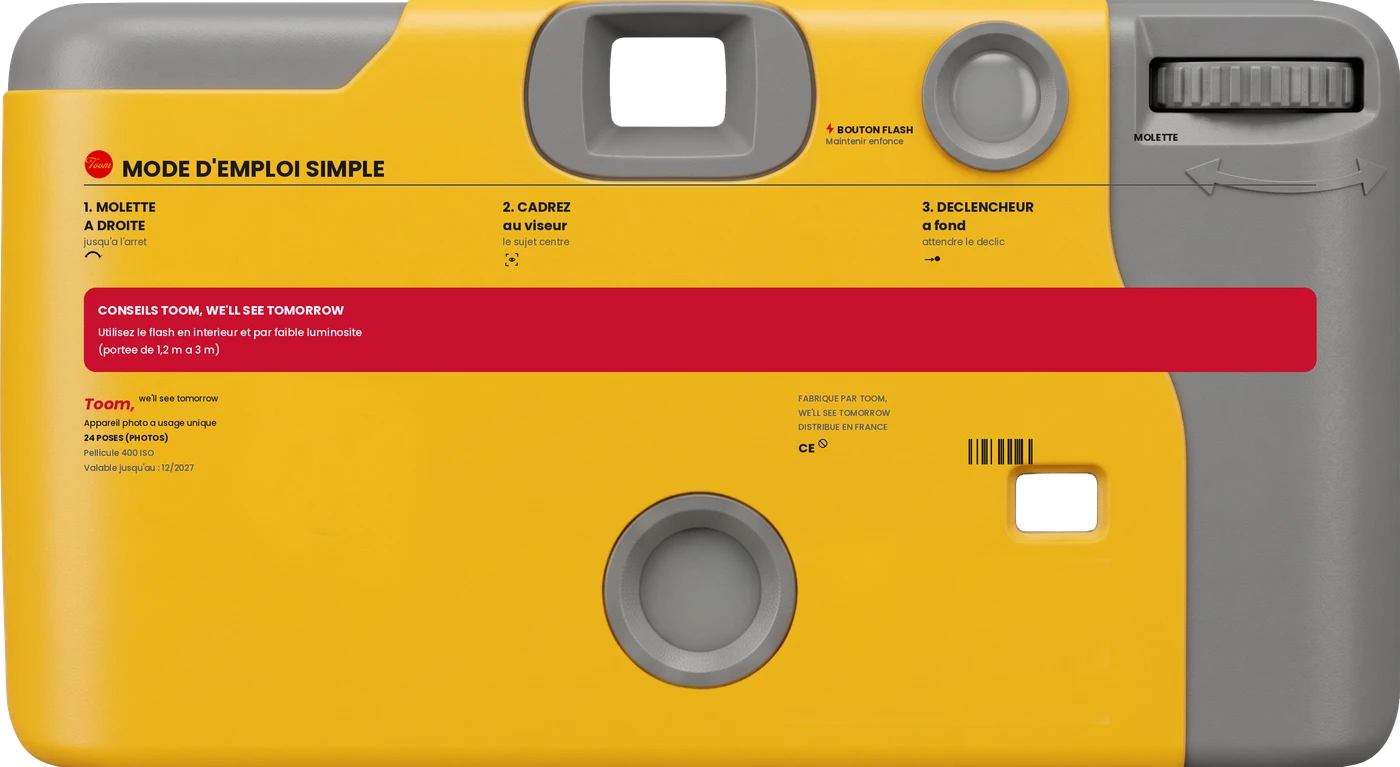
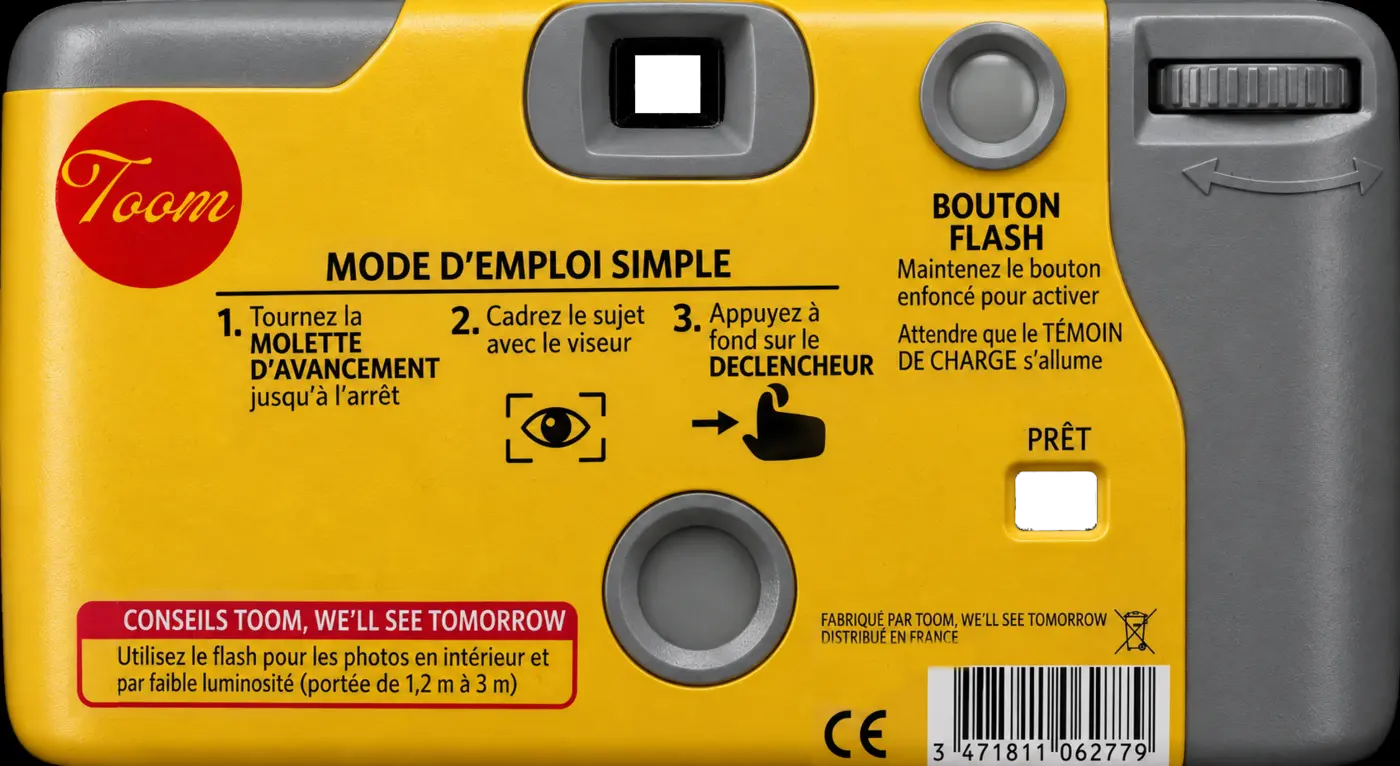
Feat: theme par defaut remplace par les visuels Photoshop de l'utilisateur
Remplacement complet de default-horizontal.webp / default-vertical.webp
par les nouvelles versions produites sous Photoshop (instructions
completes, icones, bloc marque/fabricant/CE/code-barres deja integres
a l'image, bien plus abouti que les tentatives generees par script).

- Verifie que les nouvelles images ont bien de vraies zones alpha
  (viseur + fenetre 'PRET' = compte-poses), comme annonce.
- Positions quasi identiques aux precedentes (confirme par mesure
  pixel), tailles des fenetres viseur/compteur ajustees (plus petites
  qu'avant, la decoupe est maintenant plus precise sur le carre
  reellement visible plutot que tout l'oeilleton).
- Masques de decoupe (windows-cutout-*) regeneres avec ces nouvelles
  coordonnees, pour que les themes personnalises (photos uploadees)
  restent coherents avec le nouvel emplacement exact des fenetres.
- Tests de non-chevauchement (hotspots.test.js) toujours au vert avec
  les nouvelles coordonnees.

diff --git a/src/utils/hotspots.js b/src/utils/hotspots.js
@@ -22,8 +22,8 @@ export const HOTSPOTS = {
     mask: "/skins/mask-horizontal.webp",
     windowsCutout: "/skins/windows-cutout-horizontal.webp",
     wheelAxis: "horizontal", // glissé gauche→droite
-    viewfinder: { x: 47.6, y: 10.4, w: 7.7, h: 13 },
-    poseCounter: { x: 75.4, y: 65.5, w: 5.7, h: 7.5 },
+    viewfinder: { x: 47.7, y: 10.9, w: 4.6, h: 7.4 },
+    poseCounter: { x: 75.4, y: 65.3, w: 5.7, h: 7.5 },
     flashButton: { x: 71, y: 12.3, w: 9.3, h: 9.3 },
     // Zone de clic élargie mais modérée (l'agrandissement précédent
     // grignotait trop l'espace disponible pour les instructions).
@@ -40,8 +40,8 @@ export const HOTSPOTS = {
     mask: "/skins/mask-vertical.webp",
     windowsCutout: "/skins/windows-cutout-vertical.webp",
     wheelAxis: "vertical", // glissé haut→bas
-    viewfinder: { x: 49.9, y: 7.6, w: 14.1, h: 6.1 },
-    poseCounter: { x: 85.4, y: 82.9, w: 9.4, h: 3.7 },
+    viewfinder: { x: 49.9, y: 7.6, w: 9.7, h: 4.1 },
+    poseCounter: { x: 85.3, y: 82.6, w: 9.7, h: 3.9 },
     flashButton: { x: 84.6, y: 26.2, w: 14, h: 14 },
     shutter: { x: 48.9, y: 73.3, w: 20, h: 20 },
     filmWheel: { x: 89.9, y: 8.9, w: 10, h: 18 },
